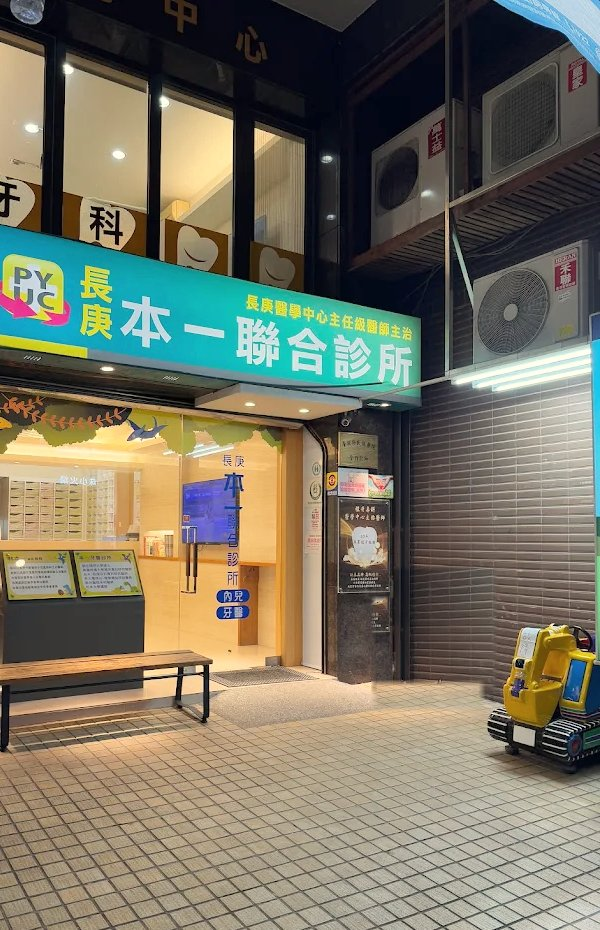
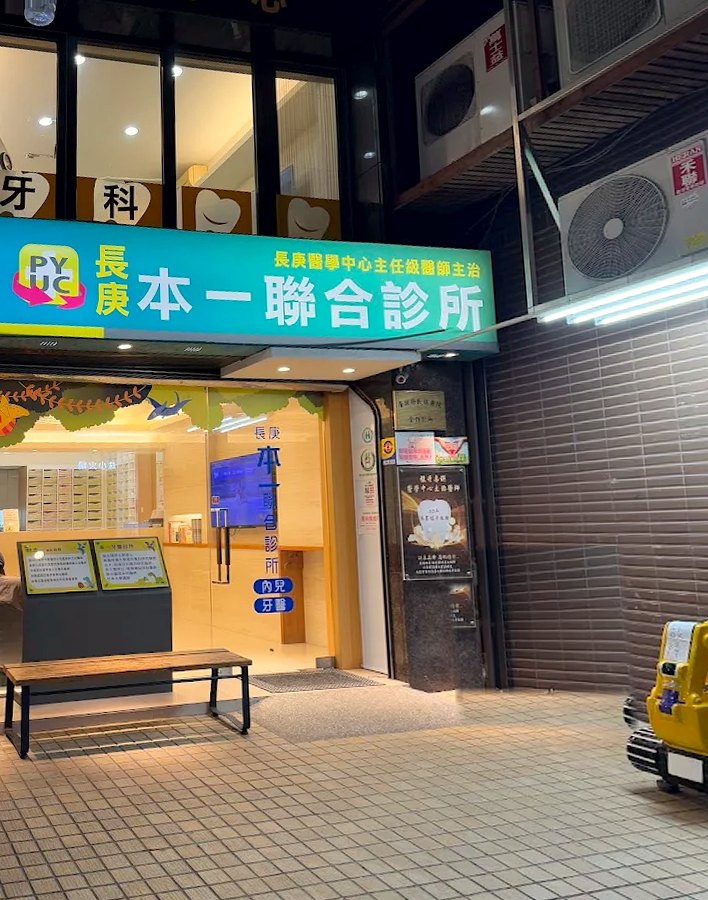
Bigger text, emotional photos, straight-on exterior, clinic interior section, Apple-style page transitions
- Headings and body text enlarged proportionally
- 本一診所: child and senior care photos (licensed stock, marked 示意圖)
- 本一牙醫診所: modern dental room photo (licensed stock, marked 示意圖)
- Homepage: exterior photo perspective-corrected to a front-on view; 診所環境 section restored with a polished interior photo
- Cross-page fade/slide transitions (View Transitions API, JS fallback), off for reduced motion

Claude-Session: https://claude.ai/code/session_01FHwA9gQKc47u4P4DEdrwAR

diff --git a/assets/css/style.css b/assets/css/style.css
@@ -25,7 +25,8 @@
 }
 
 *, *::before, *::after { box-sizing: border-box; }
-html { scroll-behavior: smooth; -webkit-text-size-adjust: 100%; }
+html { scroll-behavior: smooth; -webkit-text-size-adjust: 100%; font-size: 112.5%; }
+@media (max-width: 720px) { html { font-size: 106.25%; } }
 @media (prefers-reduced-motion: reduce) { html { scroll-behavior: auto; } }
 
 body {
@@ -72,15 +73,15 @@ section { padding: 6rem 0; }
 section.alt { background: var(--stone); }
 @media (max-width: 720px) { section { padding: 3.75rem 0; } }
 h1, h2, h3 { color: var(--navy); line-height: 1.4; margin: 0 0 1rem; font-weight: 600; }
-h2 { font-size: clamp(1.7rem, 3.2vw, 2.25rem); letter-spacing: 0.08em; }
-h3 { font-size: 1.3rem; letter-spacing: 0.05em; }
-.section-head { margin-bottom: 2.75rem; }
-.section-head::before { content: ""; display: block; width: 36px; height: 2px; background: var(--gold); margin-bottom: 1.1rem; border-radius: 2px; }
+h2 { font-size: clamp(2rem, 4.4vw, 3rem); letter-spacing: 0.08em; line-height: 1.3; }
+h3 { font-size: 1.45rem; letter-spacing: 0.05em; }
+.section-head { margin-bottom: 3rem; }
+.section-head::before { content: ""; display: block; width: 44px; height: 2px; background: var(--gold); margin-bottom: 1.1rem; border-radius: 2px; }
 .section-head.center { text-align: center; }
 .section-head.center::before { margin-left: auto; margin-right: auto; }
 .section-head p { color: var(--muted); margin: 0.25rem 0 0; }
 p { margin: 0 0 1rem; }
-.lead { font-size: 1.22rem; color: var(--navy); }
+.lead { font-size: 1.32rem; line-height: 1.75; color: var(--navy); }
 .narrow { max-width: 48rem; }
 .note { font-size: 1rem; color: var(--muted); }
 .todo { background: #FFF7E6; color: #6B4E16; border: 1px dashed var(--gold); border-radius: 4px; padding: 0.05em 0.4em; font-size: 0.95em; }
@@ -99,8 +100,8 @@ p { margin: 0 0 1rem; }
 /* ---------- 首頁主視覺：文字＋診所實景照片 ---------- */
 .hero { padding: 4.5rem 0 5rem; background: linear-gradient(180deg, var(--bg) 0%, var(--sky) 100%); overflow: hidden; }
 .hero-grid { display: grid; grid-template-columns: 1fr 1.1fr; gap: 3.5rem; align-items: center; }
-.hero-content h1 { font-size: clamp(2.4rem, 5vw, 3.6rem); letter-spacing: 0.14em; margin-bottom: 1.25rem; }
-.hero .tagline { font-size: clamp(1.2rem, 2.2vw, 1.45rem); color: var(--navy); margin-bottom: 0.5rem; }
+.hero-content h1 { font-size: clamp(2.5rem, 5.6vw, 4rem); letter-spacing: 0.14em; margin-bottom: 1.25rem; }
+.hero .tagline { font-size: clamp(1.25rem, 2.4vw, 1.6rem); color: var(--navy); margin-bottom: 0.5rem; }
 .hero .sub { color: var(--muted); margin-bottom: 2rem; }
 .hero-visual { position: relative; }
 .hero-visual .photo-main { width: 100%; aspect-ratio: 4 / 3.3; object-fit: cover; object-position: center 55%; border-radius: var(--radius-lg); box-shadow: var(--shadow-lg); }
@@ -136,7 +137,7 @@ p { margin: 0 0 1rem; }
   transition: transform 0.35s cubic-bezier(.2,.65,.2,1), box-shadow 0.35s ease;
 }
 .dept-card:hover { transform: translateY(-4px); box-shadow: var(--shadow-lg); }
-.dept-card h3 { font-size: 1.7rem; letter-spacing: 0.1em; margin-bottom: 0.4rem; }
+.dept-card h3 { font-size: 1.8rem; letter-spacing: 0.1em; margin-bottom: 0.4rem; }
 .dept-card .services { color: var(--navy-soft); letter-spacing: 0.06em; margin-bottom: 1rem; font-weight: 500; }
 .dept-card p { flex: 1; }
 .dept-card .more { align-self: flex-start; font-weight: 500; text-decoration: none; letter-spacing: 0.08em;
@@ -203,7 +204,7 @@ p { margin: 0 0 1rem; }
 /* ---------- 常見問題 ---------- */
 .faq { max-width: 54rem; display: grid; gap: 0.75rem; }
 .faq details { background: var(--white); border-radius: var(--radius); box-shadow: var(--shadow); padding: 0 1.5rem; }
-.faq summary { cursor: pointer; list-style: none; position: relative; padding: 1.2rem 2.75rem 1.2rem 0; font-size: 1.12rem; font-weight: 500; color: var(--navy); }
+.faq summary { cursor: pointer; list-style: none; position: relative; padding: 1.2rem 2.75rem 1.2rem 0; font-size: 1.15rem; font-weight: 500; color: var(--navy); }
 .faq summary::-webkit-details-marker { display: none; }
 .faq summary::after { content: "+"; position: absolute; right: 0; top: 50%; transform: translateY(-50%); width: 30px; height: 30px; border-radius: 50%; background: var(--sky); color: var(--navy); font-size: 1.3rem; line-height: 30px; text-align: center; }
 .faq details[open] summary::after { content: "−"; }
@@ -224,7 +225,7 @@ p { margin: 0 0 1rem; }
 .page-hero { padding: 4rem 0 4.5rem; background: linear-gradient(180deg, var(--bg) 0%, var(--sky) 100%); }
 .page-hero-grid { display: grid; grid-template-columns: 1fr 1fr; gap: 3.5rem; align-items: center; }
 .page-hero .eyebrow { color: var(--muted); letter-spacing: 0.15em; margin-bottom: 0.5rem; font-size: 1rem; }
-.page-hero h1 { font-size: clamp(2.1rem, 4.6vw, 3rem); letter-spacing: 0.14em; margin-bottom: 1rem; }
+.page-hero h1 { font-size: clamp(2.3rem, 5vw, 3.4rem); letter-spacing: 0.14em; margin-bottom: 1rem; }
 .page-hero .services { color: var(--navy-soft); letter-spacing: 0.06em; font-weight: 500; margin-bottom: 1.75rem; }
 .page-hero-photo { margin: 0; }
 .page-hero-photo img { width: 100%; aspect-ratio: 4 / 3; object-fit: cover; border-radius: var(--radius-lg); box-shadow: var(--shadow-lg); }
@@ -259,4 +260,35 @@ p { margin: 0 0 1rem; }
 @media (prefers-reduced-motion: reduce) {
   .js .reveal, .js .hero-content > *, .js .hero-visual { opacity: 1 !important; transform: none !important; animation: none !important; transition: none !important; }
 }
-.page-hero-photo img[src*="exterior"] { object-position: center 36%; }
+
+/* ---------- 照片：診所環境、示意圖標示 ---------- */
+.page-hero-photo, .intro-photo { position: relative; }
+.photo-note { position: absolute; right: 0.9rem; bottom: 0.9rem; margin: 0; padding: 0.15rem 0.7rem; border-radius: 999px;
+  background: rgba(255, 255, 255, 0.82); color: var(--muted); font-size: 0.8rem; letter-spacing: 0.1em;
+  -webkit-backdrop-filter: blur(6px); backdrop-filter: blur(6px); }
+.intro-grid { display: grid; grid-template-columns: 1.1fr 1fr; gap: 4rem; align-items: center; }
+@media (max-width: 860px) { .intro-grid { grid-template-columns: 1fr; gap: 2.5rem; } }
+.intro-photo { margin: 0; }
+.intro-photo img { width: 100%; aspect-ratio: 4 / 3; object-fit: cover; border-radius: var(--radius-lg); box-shadow: var(--shadow-lg); }
+.about-text { max-width: 52rem; }
+.env-section { padding-bottom: 6rem; }
+.wide-photo { margin: 0; overflow: hidden; border-radius: var(--radius, 22px); box-shadow: var(--shadow-lg);
+  transform: scale(var(--zoom, 1)); transform-origin: center top; will-change: transform; }
+.wide-photo img { width: 100%; aspect-ratio: 16 / 9; object-fit: cover; object-position: center 40%; }
+@media (max-width: 720px) { .wide-photo img { aspect-ratio: 4 / 3; } }
+.hero-visual .photo-main[src*="exterior"] { object-position: center 30%; }
+
+/* ---------- 換頁轉場（類似 Apple 網站）：舊頁淡出、新頁由下方淡入，頁首保持不動 ---------- */
+@media (prefers-reduced-motion: no-preference) {
+  @view-transition { navigation: auto; }
+  .site-header { view-transition-name: site-header; }
+  ::view-transition-group(site-header) { animation: none; }
+  ::view-transition-old(root) { animation: vt-out 0.32s cubic-bezier(.4, 0, 1, 1) both; }
+  ::view-transition-new(root) { animation: vt-in 0.6s cubic-bezier(.2, .65, .2, 1) 0.08s both; }
+  /* 不支援上述功能的瀏覽器：由 main.js 加上 is-leaving 做相同的淡出 */
+  body { transition: opacity 0.28s ease, transform 0.28s ease; }
+  body.is-leaving { opacity: 0; transform: translateY(-10px); }
+}
+@keyframes vt-out { to { opacity: 0; transform: translateY(-14px) scale(0.99); } }
+@keyframes vt-in { from { opacity: 0; transform: translateY(28px); } }
+.hero .tagline, .page-hero .services, h1, h2, h3 { text-wrap: balance; }

diff --git a/index.html b/index.html
@@ -19,9 +19,9 @@
 <link rel="preconnect" href="https://fonts.googleapis.com">
 <link rel="preconnect" href="https://fonts.gstatic.com" crossorigin>
 <link rel="stylesheet" href="https://fonts.googleapis.com/css2?family=Noto+Sans+TC:wght@400;500;600&amp;display=swap">
-<link rel="stylesheet" href="assets/css/style.css?v=5">
+<link rel="stylesheet" href="assets/css/style.css?v=6">
 <script>document.documentElement.classList.add("js");</script>
-<script src="assets/js/main.js?v=5" defer></script>
+<script src="assets/js/main.js?v=6" defer></script>
 <!-- 結構化資料（供 Google 與 AI 搜尋讀取）：若修改地址、電話、門診時間，請同步更新此處 -->
 <script type="application/ld+json">
 {
@@ -283,9 +283,9 @@
             <a class="btn" href="https://www.google.com/maps/dir/?api=1&amp;destination=%E6%96%B0%E5%8C%97%E5%B8%82%E8%98%86%E6%B4%B2%E5%8D%80%E9%95%B7%E6%A6%AE%E8%B7%AF43-1%E8%99%9F" target="_blank" rel="noopener">Google Maps 導航</a>
           </div>
         </div>
-        <!-- ✏ 主視覺照片：診所實景 -->
+        <!-- ✏ 主視覺照片：診所外觀（實景照片，已校正為正面角度） -->
         <div class="hero-visual">
-          <img class="photo-main" src="assets/images/photos/reception.jpg" alt="本一聯合診所明亮的掛號櫃台與候診區" width="990" height="1020" fetchpriority="high">
+          <img class="photo-main" src="assets/images/photos/exterior.jpg" alt="本一聯合診所正面外觀，位於新北市蘆洲區長榮路43-1號1樓" width="708" height="900" fetchpriority="high">
         </div>
       </div>
 
@@ -332,20 +332,13 @@
   <!-- ========== 關於我們 ========== -->
   <section id="about" aria-labelledby="about-title">
     <div class="container">
-      <div class="about-grid">
-        <div>
+      <div class="about-text">
           <div class="section-head"><h2 id="about-title">關於我們</h2></div>
           <!-- ✏ 關於我們內文 -->
           <p class="lead">本一聯合診所位於新北市蘆洲區，由具醫學中心資歷的醫師團隊組成。</p>
           <p>本一診所由醫學中心講師級資深小兒專科主治醫師看診，並具感染症專科資格；本一牙醫診所則由具醫學中心主治醫師資歷的資深牙科醫師看診。</p>
           <p>我們以病人為中心，結合持續精進的醫學知識與技術，提供專業的治療與親切的服務，希望為每一位病人帶來更優質的就醫體驗。</p>
           <p>以親切的笑容迎接每一位病人，並主動關懷病人的需求，是我們始終如一的原則。</p>
-        </div>
-        <!-- ✏ 診所外觀照片 -->
-        <figure class="about-photo">
-          <img src="assets/images/photos/exterior.jpg" alt="本一聯合診所外觀，位於新北市蘆洲區長榮路43-1號1樓的騎樓下" width="600" height="930" loading="lazy">
-          <figcaption>診所外觀｜蘆洲區長榮路43-1號1樓</figcaption>
-        </figure>
       </div>
       <ul class="pillars">
         <li><strong>醫學中心醫師資歷</strong><span>醫師皆具醫學中心臨床經驗</span></li>
@@ -353,6 +346,21 @@
         <li><strong>親切服務</strong><span>以笑容與耐心迎接每一次就醫</span></li>
         <li><strong>主動關懷</strong><span>關心病人在看診前後的狀況</span></li>
       </ul>
+    </div>
+  </section>
+
+  <!-- ========== 診所環境 ========== -->
+  <section id="environment" class="env-section" aria-labelledby="env-title">
+    <div class="container">
+      <div class="section-head center">
+        <h2 id="env-title">診所環境</h2>
+        <p>明亮、整潔的候診空間，讓每一次就醫都更安心</p>
+      </div>
+      <!-- ✏ 診所環境照片（實景照片） -->
+      <figure class="wide-photo" data-zoom>
+        <img src="assets/images/photos/interior.jpg" alt="本一聯合診所的掛號櫃台與候診區，空間明亮整潔" width="1010" height="707" loading="lazy">
+      </figure>
+      <p class="photo-caption">掛號櫃台與候診區</p>
     </div>
   </section>
 

diff --git a/clinic.html b/clinic.html
@@ -19,9 +19,9 @@
 <link rel="preconnect" href="https://fonts.googleapis.com">
 <link rel="preconnect" href="https://fonts.gstatic.com" crossorigin>
 <link rel="stylesheet" href="https://fonts.googleapis.com/css2?family=Noto+Sans+TC:wght@400;500;600&amp;display=swap">
-<link rel="stylesheet" href="assets/css/style.css?v=5">
+<link rel="stylesheet" href="assets/css/style.css?v=6">
 <script>document.documentElement.classList.add("js");</script>
-<script src="assets/js/main.js?v=5" defer></script>
+<script src="assets/js/main.js?v=6" defer></script>
 <!-- 結構化資料（供 Google 與 AI 搜尋讀取）：若修改地址、電話、門診時間，請同步更新此處 -->
 <script type="application/ld+json">
 {
@@ -158,8 +158,10 @@
         <a class="btn" href="#hours">查看門診時間</a>
       </div>
       </div>
+      <!-- ✏ 情境照片（圖庫示意照，非本院實景） -->
       <figure class="page-hero-photo">
-        <img src="assets/images/photos/exterior.jpg" alt="本一聯合診所外觀，位於新北市蘆洲區長榮路43-1號1樓" width="600" height="930" fetchpriority="high">
+        <img src="assets/images/photos/child-care.jpg" alt="示意圖：媽媽陪伴下，醫護人員細心為孩子貼上OK繃" width="1200" height="799" fetchpriority="high">
+        <figcaption class="photo-note">示意圖</figcaption>
       </figure>
     </div>
   </section>
@@ -178,11 +180,18 @@
 
   <!-- ========== 診所介紹 ========== -->
   <section id="intro" aria-labelledby="intro-title">
-    <div class="container narrow">
+    <div class="container intro-grid">
+      <div>
       <div class="section-head"><h2 id="intro-title">診所介紹</h2></div>
       <!-- ✏ 診所介紹 -->
       <p class="lead">本一診所位於新北市蘆洲區，由醫學中心講師級資深小兒專科主治醫師林本一院長看診，並具感染症專科資格。</p>
       <p>從孩子的成長照護到全家人的日常健康，我們以耐心傾聽、清楚說明為原則，陪伴每一個家庭安心就醫。</p>
+      </div>
+      <!-- ✏ 情境照片（圖庫示意照，非本院實景） -->
+      <figure class="intro-photo">
+        <img src="assets/images/photos/senior-care.jpg" alt="示意圖：醫護人員握著年長病人的手，親切關懷" width="960" height="640" loading="lazy">
+        <figcaption class="photo-note">示意圖</figcaption>
+      </figure>
     </div>
   </section>
 

diff --git a/assets/js/main.js b/assets/js/main.js
@@ -12,7 +12,7 @@
   var groups = [
     ".section-head", ".dept-card", ".about-grid > div", ".about-photo", ".pillars li",
     ".service", ".other-services", ".doctor", ".hours-wrap > div", ".call-note",
-    ".faq details", ".contact-grid > *", ".wide-photo", ".photo-caption", ".narrow > p"
+    ".faq details", ".contact-grid > *", ".photo-caption", ".narrow > p", ".about-text > p", ".intro-grid > *"
   ];
   var targets = [];
   groups.forEach(function (sel) {
@@ -60,4 +60,23 @@
   window.addEventListener("scroll", onScroll, { passive: true });
   window.addEventListener("resize", onScroll);
   update();
+})();
+
+/* 3. 換頁轉場的備援：瀏覽器若不支援 CSS 換頁轉場，點選站內連結時先讓頁面淡出再前往 */
+(function () {
+  "use strict";
+  var reduce = window.matchMedia && window.matchMedia("(prefers-reduced-motion: reduce)").matches;
+  if (reduce || "CSSViewTransitionRule" in window) return;
+  document.addEventListener("click", function (e) {
+    var a = e.target.closest && e.target.closest("a[href]");
+    if (!a || e.defaultPrevented || e.button !== 0 || e.metaKey || e.ctrlKey || e.shiftKey || e.altKey) return;
+    if (a.target && a.target !== "_self") return;
+    var url = new URL(a.href, location.href);
+    if (url.origin !== location.origin || url.pathname === location.pathname) return;
+    e.preventDefault();
+    document.body.classList.add("is-leaving");
+    setTimeout(function () { location.href = url.href; }, 260);
+  });
+  // 按「上一頁」回到此頁時，恢復顯示
+  window.addEventListener("pageshow", function () { document.body.classList.remove("is-leaving"); });
 })();

diff --git a/dental.html b/dental.html
@@ -19,9 +19,9 @@
 <link rel="preconnect" href="https://fonts.googleapis.com">
 <link rel="preconnect" href="https://fonts.gstatic.com" crossorigin>
 <link rel="stylesheet" href="https://fonts.googleapis.com/css2?family=Noto+Sans+TC:wght@400;500;600&amp;display=swap">
-<link rel="stylesheet" href="assets/css/style.css?v=5">
+<link rel="stylesheet" href="assets/css/style.css?v=6">
 <script>document.documentElement.classList.add("js");</script>
-<script src="assets/js/main.js?v=5" defer></script>
+<script src="assets/js/main.js?v=6" defer></script>
 <!-- 結構化資料（供 Google 與 AI 搜尋讀取）：若修改地址、電話、門診時間，請同步更新此處 -->
 <script type="application/ld+json">
 {
@@ -111,8 +111,10 @@
         <a class="btn" href="#hours">看診時間說明</a>
       </div>
       </div>
+      <!-- ✏ 情境照片（圖庫示意照，非本院實景） -->
       <figure class="page-hero-photo">
-        <img src="assets/images/photos/reception.jpg" alt="本一聯合診所的掛號櫃台與候診區" width="990" height="1020" fetchpriority="high">
+        <img src="assets/images/photos/dental-room.jpg" alt="示意圖：明亮現代的牙科診療室" width="960" height="640" fetchpriority="high">
+        <figcaption class="photo-note">示意圖</figcaption>
       </figure>
     </div>
   </section>

diff --git a/assets/images/photos/README.md b/assets/images/photos/README.md
@@ -1,8 +1,12 @@
-# 診所照片 Clinic photos
+# 照片 Photos
 
-Real photos of the clinic used on the homepage:
+## 診所實景（本院照片）
+- `exterior.jpg`: 診所正面外觀（首頁主視覺）。原始照片經過清理，並校正為正面角度。
+- `interior.jpg`: 掛號櫃台與候診區（首頁「診所環境」）。原始照片經過裁切、白平衡與亮度調整。
 
-- `exterior.jpg`: 診所外觀 (about section)
-- `reception.jpg`: 掛號櫃台與候診區 (診所環境 section)
+## 情境示意照（圖庫照片，非本院實景，網頁上標示「示意圖」）
+- `child-care.jpg`: 本一診所頁面上方。來源：美國疾病管制與預防中心（CDC）Public Health Image Library，經 rawpixel 提供，公有領域 (CC0)。
+- `senior-care.jpg`: 本一診所「診所介紹」。來源：StockSnap，CC0（可免費商用，無需標示來源）。
+- `dental-room.jpg`: 本一牙醫診所頁面上方。來源：StockSnap，CC0。
 
-To swap a photo, upload a new one with the same file name. Use only real photos of the clinic, not stock or AI-generated images.
+換照片時，用相同的檔名上傳即可。若改用本院實景照片，可刪除網頁中的「示意圖」標示（搜尋 `photo-note`）。

diff --git a/README.md b/README.md
@@ -25,7 +25,8 @@ The FAQ answers, services and doctor profiles were completed from the clinic's b
 
 ## Images and animation
 
-- `assets/images/photos/`: real photos of the clinic (exterior and reception), lightly retouched. They appear on the homepage and at the top of each department page. Replace them with new photos using the same file names.
+- `assets/images/photos/`: the clinic's own photos (exterior, straightened to a front-on view, and the reception area) on the homepage, plus licensed free stock photos on the two department pages, marked 示意圖 (illustration) on the page. Sources and licences are listed in `assets/images/photos/README.md`. Replace any of them with new photos using the same file names.
+- Page transitions: moving between pages fades the old page out and slides the new one in, like apple.com. This is set at the bottom of `assets/css/style.css`.
 - `assets/js/main.js`: gentle fade-in effects while scrolling. They switch off automatically for visitors who turn on "reduce motion" in their device settings.
 - Colours are set at the top of `assets/css/style.css`: bright warm white, light stone, deep navy, a pale blue-grey accent, and champagne gold used only for thin lines.
 
